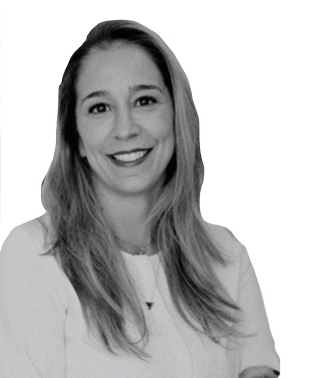
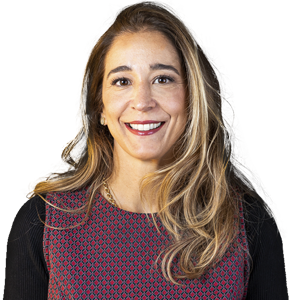
atualizacao das imagens dos adv. montagem html do emailmkt

diff --git a/index.html b/index.html
@@ -7,7 +7,7 @@
     <link rel="stylesheet" type="text/css" href="assets/js/slick/slick.css"/>
     <link rel="stylesheet" type="text/css" href="assets/js/slick/slick-theme.css"/>    
     <link rel="stylesheet" href="https://unpkg.com/aos@next/dist/aos.css" />
-    <link rel="stylesheet" href="assets/css/style.css?131">
+    <link rel="stylesheet" href="assets/css/style.css?13123">
     <link rel="preconnect" href="https://fonts.googleapis.com">
     <link rel="preconnect" href="https://fonts.gstatic.com" crossorigin>
     <link href="https://fonts.googleapis.com/css2?family=Montserrat:wght@300;400;500;600;700&display=swap" rel="stylesheet">
@@ -48,17 +48,19 @@
                  -->
                 <div class="social social-20" data-aos="zoom-out-right">
                     <ul>
-                        <li><a href="https://www.instagram.com/peckadvogados/" target="_blank" class="ico-social-header instagram">instagram</a></li>
-                        <li><a href="" class="ico-social-header twitter">twiter</a></li>
-                        <li><a href="" class="ico-social-header facebook">facebook</a></li>
-                        <li><a href="" class="ico-social-header linkedin">linkedin</a></li>
-                        <li><a href="" class="ico-social-header email">email</a></li>
+                        <li><a href="" onclick="return false;" class="ico-social-header instagram">instagram</a></li>
+                        <li><a href="" onclick="return false;" class="ico-social-header twitter">twiter</a></li>
+                        <li><a href="" onclick="return false;" class="ico-social-header facebook">facebook</a></li>
+                        <li><a href="" onclick="return false;" class="ico-social-header linkedin">linkedin</a></li>
+                        <li><a href="" onclick="return false;" class="ico-social-header email">email</a></li>
                     </ul>
                 </div>
-                <div class="idioma" data-aos="zoom-out-right">
-                    <a href=""><img src="assets/images/ingles.png" alt="English"></a>
-                    <a href=""><img src="assets/images/espanhol.png" alt="Spanish"></a>
-                </div>
+                <!-- 
+                    <div class="idioma" data-aos="zoom-out-right">
+                        <a href=""><img src="assets/images/ingles.png" alt="English"></a>
+                        <a href=""><img src="assets/images/espanhol.png" alt="Spanish"></a>
+                    </div>
+                 -->
 
             </div>
 
@@ -936,18 +938,19 @@
             </div>
             <div class="corpo">
 
-                <form action="">
+                <!-- <form action="form-action.php" method="POST"> -->
+                <form action="" method="POST">
 
                     <div class="box-campo">
                         <label for="assunto">Assunto *</label> <br>
                         <select name="assunto">
-                            <option value="">
+                            <option value="Fale">
                                 Fale conosco – Mais informações, agenda de atendimento ou parceria estratégica, entre em contato.
                             </option>
-                            <option value="">
+                            <option value="Carreira">
                                 Carreira – Se você tem o DNA do Direito + Tecnologia + Inovação venha fazer parte do nosso Dream Team! 
                             </option>
-                            <option value="">
+                            <option value="Imprensa">
                                 Imprensa – Oportunidades de pautas e entrevistas
                             </option>
                         </select>
@@ -971,7 +974,7 @@
                         </div> 
                         <div class="box-campo">
                             <label for="telefone">Telefone *</label> <br>
-                            <input type="text" name="telefone" required>
+                            <input type="number" name="telefone" required>
                         </div> 
                     </div>
 
@@ -987,7 +990,7 @@
                             </p>
                             <br>
                             <label for="inscrever">
-                                <input type="checkbox" name="inscrever" id="inscrever"> sim, quero receber.
+                                <input type="checkbox" name="assinar" id="assinar"> sim, quero receber.
                             </label>                            
                         </div>
                         <div class="bt-box">
@@ -1007,7 +1010,7 @@
                 <div class="parte1" data-aos="zoom-out-right">
                     <!-- SÃO PAULO - SP
                     <br> -->
-                    Rua Henrique Schaumann, nº 270, 4o. andar, 
+                    Rua Henrique Schaumann, nº 270, 4º andar, 
                     <br>
                     Edifício Pinheiros Corporate,
                     <br>
@@ -1015,10 +1018,10 @@
                 </div>
                 <div class="parte2">
                     <div class="telefone">
-                        +55 11 4858-3846
+                        (11) 2189-0444
                     </div>
                     <div class="icone">
-                        <a href="https://api.whatsapp.com/send?phone=551148583846&text=Envie%20sua%20mensagem" target="_blank">
+                        <a href="https://api.whatsapp.com/send?phone=551121890444&text=Mande%20sua%20mensagem" target="_blank">
                             <img src="assets/images/ico-telefone.png" alt="telefone">
                         </a>
                     </div>
@@ -1032,11 +1035,11 @@
                 </div>
                 <div class="parte2">
                     <ul>
-                        <li><a target="_blank" href="https://www.instagram.com/peckadvogados/" class="social-footer social-27 instagram">instagram</a></li>
-                        <li><a target="_blank" href="" class="social-footer social-27 twitter">twitter</a></li>
-                        <li><a target="_blank" href="" class="social-footer social-27 facebook">facebook</a></li>
-                        <li><a target="_blank" href="" class="social-footer social-27 linkedin">linkedin</a></li>
-                        <li><a target="_blank" href="" class="social-footer social-27 email">email</a></li>
+                        <li><a href="" onclick="return false;" class="social-footer social-27 instagram">instagram</a></li>
+                        <li><a href="" onclick="return false;" class="social-footer social-27 twitter">twitter</a></li>
+                        <li><a href="" onclick="return false;" class="social-footer social-27 facebook">facebook</a></li>
+                        <li><a href="" onclick="return false;" class="social-footer social-27 linkedin">linkedin</a></li>
+                        <li><a href="" onclick="return false;" class="social-footer social-27 email">email</a></li>
                     </ul>
                 </div>
             </div>

diff --git a/assinatura-email/assinatura-email.html b/assinatura-email/assinatura-email.html
@@ -1,0 +1,64 @@
+
+<table border="0" width="100%">
+    <tr>
+        <td width="20" height="30"></td>
+        <td></td>
+        <td width="20"></td>
+    </tr>
+    <tr>
+        <td></td>
+        <td>
+            <p style="font-family: Arial, Helvetica, sans-serif; font-size: 26px; color: #37c8b4;">
+                <strong>Patricia Peck</strong>
+                <br>
+                <span style="font-family: Arial, Helvetica, sans-serif; font-size: 15px; color: #000000;">+55 (12) 98765 1234</span>
+            </p>
+
+            <table border="0" width="100%">
+                <tr>
+                    <td width="255" style="border-right:2px solid #414140;"><img src="peck-email.gif" alt=""></td>
+                    <td width="35"></td>
+                    <td style="font-family: Verdana, Geneva, Tahoma, sans-serif; font-size: 14px; color: #004e59;">
+                        Rua Henrique Schaumann, nº 270, 4º andar,
+                        <br>
+                        São Paulo - SP, CEP: 05413-909
+                        <br>
+                        Tel: 11 2189-0444
+                        <br>
+                        <a href="" style="font-family: Verdana, Geneva, Tahoma, sans-serif; font-size: 14px; color: #004e59; text-decoration: none;">www.peckadvogados.com.br</a>
+                        <br>
+                        <a style="font-family: Verdana, Geneva, Tahoma, sans-serif; font-size: 14px; color: #004e59; text-decoration: none;" href="mailto:contato@peckadvogados.com.br">contato@peckadvogados.com.br</a>
+                        <br><br>
+                        Peck + Advogados no 
+                        <a href="" style="font-family: Verdana, Geneva, Tahoma, sans-serif; font-size: 14px; color: #004e59; text-decoration: none;"><strong>Facebook</strong></a>
+                         | <a href="" style="font-family: Verdana, Geneva, Tahoma, sans-serif; font-size: 14px; color: #004e59; text-decoration: none;"><strong>Instagram</strong></a> 
+                         | <a href="" style="font-family: Verdana, Geneva, Tahoma, sans-serif; font-size: 14px; color: #004e59; text-decoration: none;"><strong>Google Maps</strong></a>
+                    </td>
+                </tr>
+            </table>
+        </td>
+        <td></td>
+    </tr>
+    <tr>
+        <td height="50"></td>
+        <td></td>
+        <td></td>
+    </tr>
+    <tr>
+        <td></td>
+        <td style="border-top: 2px solid #37c8b4; font-family: Verdana, Geneva, Tahoma, sans-serif; font-size: 12px; color: #000000;">
+            <br>
+            "Esta mensagem é reservada e sua divulgação, distribuição, reprodução ou qualquer forma de uso e proibida e depende de previa autorização desta instituição. O remetente utiliza o correio eletrônico no exercício do seu trabalho ou em razão dele, eximindo esta instituição de qualquer responsabilidade por utilização indevida. Se você recebeu esta mensagem por engano, favor eliminá-la."
+            <br>
+            <br>
+            "This message is reserved and its disclosure, distribution, reprodution or any other form of use is prohibited and shall depend upon previous proper authorization. The sender uses the electronic mail in the exercise of his/her work or by virtue thereof and the institution accepts no liability for its undue use. If you have received this e-mail by mistake, please delete it."
+            <br>
+        </td>
+        <td></td>
+    </tr>
+    <tr>
+        <td height="30"></td>
+        <td></td>
+        <td></td>
+    </tr>
+</table>

diff --git a/template-advogados.html b/template-advogados.html
@@ -28,7 +28,7 @@
             <div class="navegacao">
                 <div class="menu">
                     <nav>
-                        <div class="menuMobile">
+                        <div class="menu-mobile">
                             <div class="mm-line"></div>
                             <div class="mm-line"></div>
                             <div class="mm-line"></div>
@@ -64,6 +64,8 @@
         </div>
         <div class="border-gradient"></div>
     </header>
+
+
 
     <section class="templates">
         <!-- 

diff --git a/assets/css/style.css b/assets/css/style.css
@@ -576,6 +576,9 @@ section.fale-section {display: block;}
 
     .idioma {
         margin-left: 15px;
+        position: absolute;
+        right: 15px;
+        top: 14px;
     }
     .idioma img {
         width: 21px;

diff --git a/form-action.php b/form-action.php
@@ -1,0 +1,48 @@
+<?php
+
+if (isset($_POST['nome']) && !empty($_POST['nome'])) {
+
+    $assunto = addslashes($_POST['assunto']); // fale, carreira, imprensa
+    $nome = addslashes($_POST['nome']);
+    $email = addslashes($_POST['email']);   
+    $empresa = addslashes($_POST['empresa']);
+    $telefone = addslashes($_POST['telefone']);
+    $mensagem = addslashes($_POST['mensagem']);
+    $assinar = addslashes($_POST['assinar']);
+
+    
+    $assunto = addslashes($_POST['assunto']); // fale, carreira, imprensa
+    $nome = addslashes($_POST['nome']);
+    $email = addslashes($_POST['email']);   
+    $empresa = addslashes($_POST['empresa']);
+    $telefone = addslashes($_POST['telefone']);
+    $mensagem = addslashes($_POST['mensagem']);
+    $assinar = addslashes($_POST['assinar']);
+    if(!empty($assinar)){
+        $assinar = "Sim, desejo receber newsletter";
+    } else {
+        $assinar = "Não, muito obrigado";
+    }
+
+    $preview = "";
+    
+    
+    $preview =  '$assunto: '.$assunto. "<br>" .
+                '$nome: '.$nome. "<br>" .
+                '$email: '.$email. "<br>" .
+                '$empresa: '.$empresa. "<br>" .
+                '$telefone: '.$telefone. "<br>" .
+                '$Newsletter: '.$assinar. "<br>" .
+                '$mensagem: '.$mensagem;
+
+    echo $preview;
+
+// Quarta feira, 4 de agosto.
+
+// Sol, temperatura alta durante o dia.
+
+// Temperatura baixa durante a noite.
+
+
+
+}
